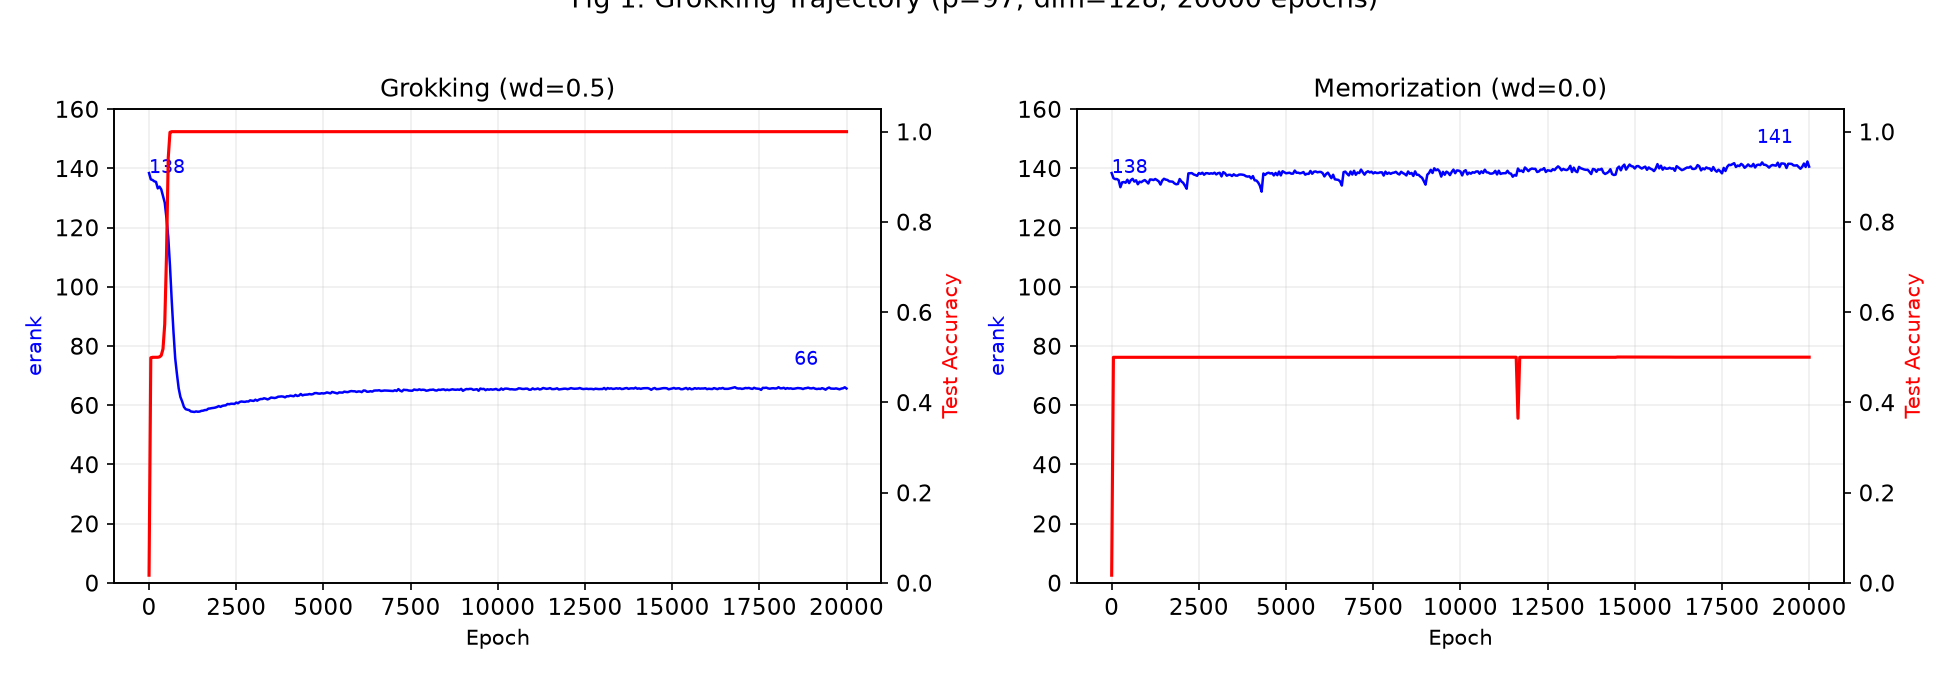
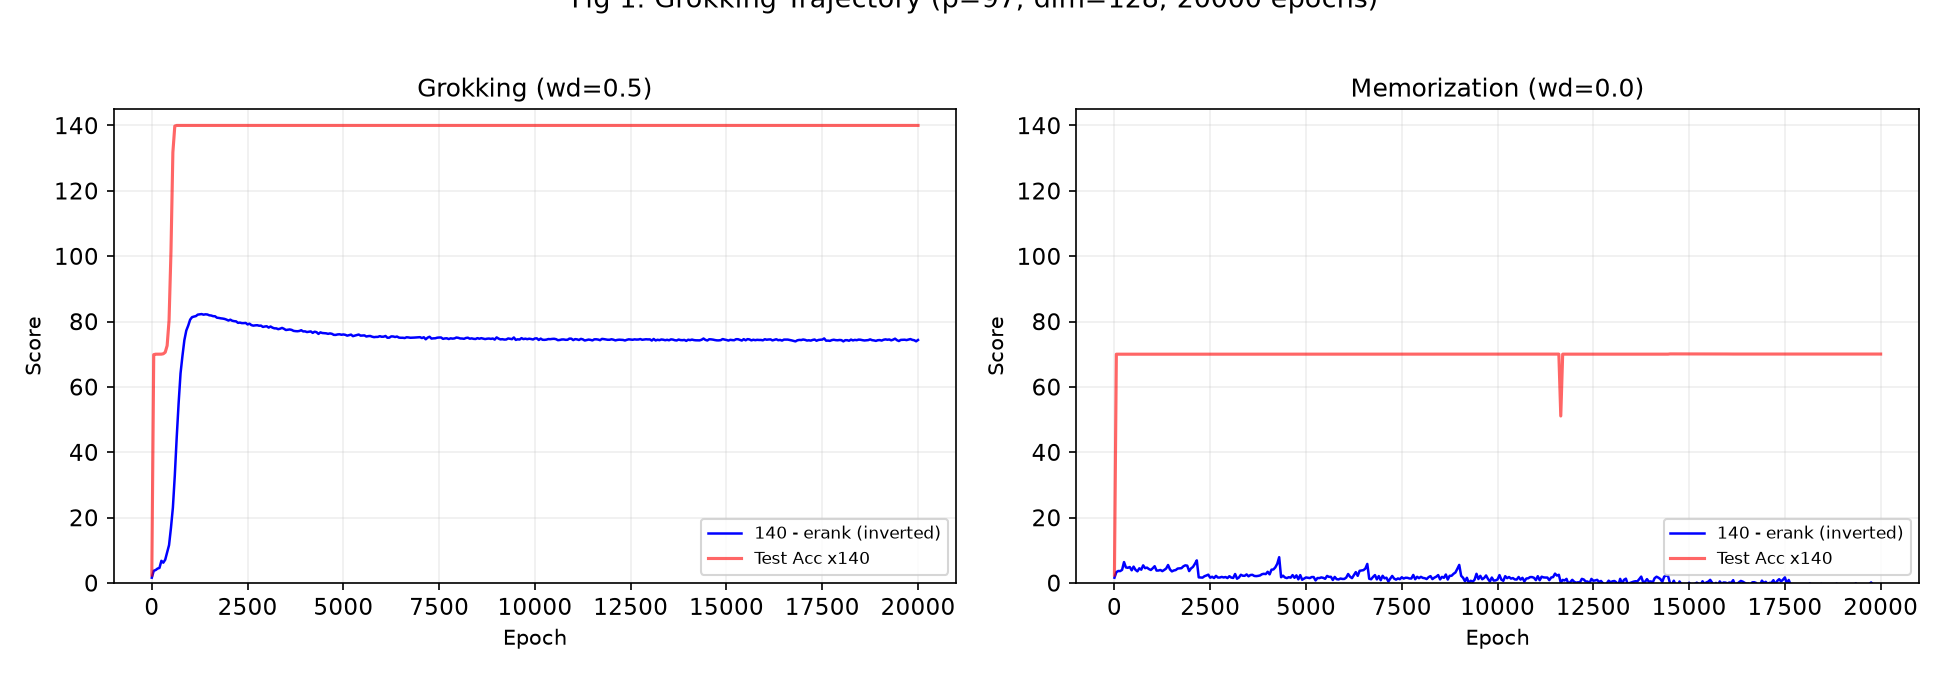
v3.1: invert erank in fig1 so it rises with accuracy

diff --git a/src/plot.py b/src/plot.py
@@ -11,22 +11,18 @@ def load(fn):
     with open(f'{DATA}/{fn}') as f: return json.load(f)
 
 # ============================================================
-# FIG 1: Grokking — wd=0.5 vs wd=0.0
+# FIG 1: Grokking — wd=0.5 vs wd=0.0, erank INVERTED
 # ============================================================
 d = load('grokking_trajectory.json')
 fig, (ax1, ax2) = plt.subplots(1, 2, figsize=(13, 4.5))
 for ax, key, title in [(ax1, 'wd_0.5', 'Grokking (wd=0.5)'), (ax2, 'wd_0.0', 'Memorization (wd=0.0)')]:
-    v = d[key]; ep = v['epoch']; ea = v['erank']; ta = v['test_acc']
-    ax.plot(ep, ea, 'b-', linewidth=1.2, label='erank')
-    ax2t = ax.twinx()
-    ax2t.plot(ep, ta, 'r-', linewidth=1.5, label='Test Acc')
-    ax.set_ylim(0, 160); ax2t.set_ylim(0, 1.05)
-    ax.set_xlabel('Epoch'); ax.set_ylabel('erank', color='b')
-    ax2t.set_ylabel('Test Accuracy', color='r')
+    v = d[key]; ep = v['epoch']; ea = [140 - e for e in v['erank']]; ta = v['test_acc']
+    ax.plot(ep, ea, 'b-', linewidth=1.2, label='140 - erank (inverted)')
+    ax.plot(ep, [t*140 for t in ta], 'r-', linewidth=1.5, alpha=0.6, label='Test Acc x140')
+    ax.set_ylim(0, 145)
+    ax.set_xlabel('Epoch'); ax.set_ylabel('Score')
     ax.set_title(title); ax.grid(True, alpha=0.2)
-    ax.annotate(f'{ea[0]:.0f}', xy=(ep[0],ea[0]), fontsize=9, color='b')
-    ax.annotate(f'{ea[-1]:.0f}', xy=(ep[-1],ea[-1]), fontsize=9, color='b',
-                xytext=(ep[-1]-1500, ea[-1]+8))
+    ax.legend(fontsize=8, loc='lower right')
 plt.suptitle('Fig 1: Grokking Trajectory (p=97, dim=128, 20000 epochs)', y=1.02)
 plt.tight_layout(); plt.savefig(f'{OUT}/fig1_grokking.png', dpi=150); plt.close()
 